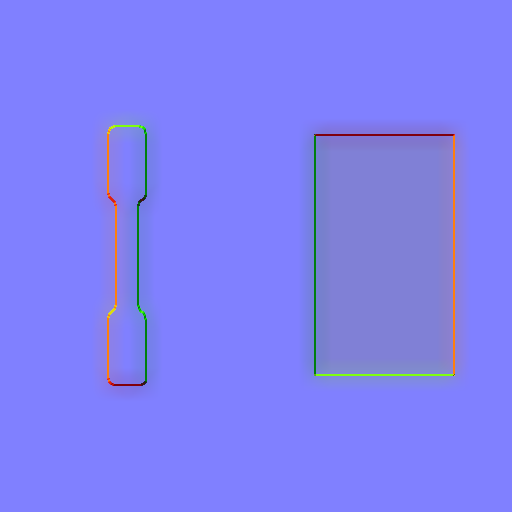
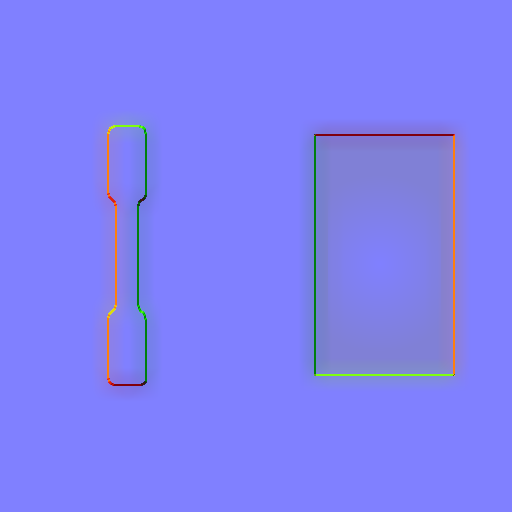
Removed unneeded extra files and comments

Changed region(s): [[0.6562, 0.4375, 0.8125, 0.5938]]

diff --git a/fragement_shader.js b/fragement_shader.js
@@ -69,48 +69,35 @@ void main() {
   vec3 v2 = normalize(v);
   
   // Calculate cylinder coordinate and apply diffuse
-  vec2 cylinderTexCoord = GetCylinderTextureCoordinates(vPosition); //vec2(0.0,0.0);
-  // cylinderTexCoord.s = clamp((-atan(vPosition.z, vPosition.x))/(2.0*PI)+0.5,0.05,0.95);
-  // cylinderTexCoord.t = smoothstep(0.15,0.85,vPosition.y + 0.5);
+  vec2 cylinderTexCoord = GetCylinderTextureCoordinates(vPosition);
   vec3 diffuse_texture = vec3(texture(uSampler, cylinderTexCoord));  
   
   // Calculate updated normal from normal map
   vec3 bump_texture = vec3(texture(uSampler3, cylinderTexCoord));
-  // bump_texture = bump_texture;
-  
-  // float normalPower = bump_texture.z;
-  // vec3 up = vec3(0.0, 1.0, 0.0);
-  // vec3 pt = (cross(up, n2));
-  // vec3 ps = (cross(pt, n2));
-  // float dBds = bump_texture.x-0.5;
-  // float dBdt = bump_texture.y-0.5;
-  
-  vec3 nprime = ApplyBumpNormalMap(bump_texture, n2);//(n2 - dBds * cross(n2, pt) + dBdt * cross(n2, ps))*normalPower;
+  vec3 nprime = ApplyBumpNormalMap(bump_texture, n2);
   
   // Calculate the diffuse and specular values
   float diffuse_value = max(dot(nprime,-l2)-0.5,0.0);
-  vec3 r = (2.0 * max(dot(l2,nprime),0.0) * nprime - l2);
-  // vec3 r = reflect(l2,nprime);
-  float specular_value = pow(max(dot(v2, r), 0.0), 5.0);
+  vec3 r = (2.0 * max(dot(-l2,nprime),0.0) * nprime - l2);
+  float specular_power = 10.0;
+  float specular_offset = 0.005;
+  float specular_value = pow(max(dot(v2, r), 0.0), specular_power)/specular_power * specular_offset;
   
   // Calculate sphere coordinates and apply Reflectance
-  vec2 sphereTexCoord = GetSphericalTextureCoordinates(nprime);//vec2(1.0,1.0);
-  // sphereTexCoord.s = (nprime.x+1.0)/2.0;
-  // sphereTexCoord.t = (nprime.y+1.0)/2.0;
+  vec2 sphereTexCoord = GetSphericalTextureCoordinates(nprime);
   vec3 reflectence_texture = vec3(texture(uSampler2, sphereTexCoord));
 
   
   // Calculate color components for Phong shading
-  vec4 color_mix_amount = vec4(0.25, 0.1, 0.25, 0.3);
-  // vec3 diffuse_color = mix(diffuse_texture, proc_main_color, clamp(dot_mix.x*dot_mix.z, 0.0, 1.0)) * (diffuse_value + color_mix_amount.x);  
+  vec4 color_mix_amount = vec4(0.25, 0.1, 0.25, 0.1);
   vec3 diffuse_color = MarbleProceduralTextureApply(vPosition, diffuse_texture) * (diffuse_value + color_mix_amount.x);
-  vec3 specular_color = vec3(1.0,1.0,1.0) * (specular_value * color_mix_amount.y);
+  vec3 specular_color = vec3(1.0,1.0,0.75) * specular_value;
   vec3 reflectence_color = reflectence_texture * color_mix_amount.z;
   vec3 ambient_color = vec3(1.0,1.0,1.0) * color_mix_amount.w;
   
   // Combine all the colors
   vec3 color = diffuse_color + reflectence_color + specular_color + ambient_color;
-  //color = sin(procPos).rrr;//proc_main_color*((dot_mix.x+dot_mix.z)*0.5*dot_mix.y);//r * specular_value;//subsurf_color.rrr;
+  // color = specular_color * specular_value;//vec3(1.0,0.0,0.0)*specular_value;//sin(procPos).rrr;//proc_main_color*((dot_mix.x+dot_mix.z)*0.5*dot_mix.y);//r * specular_value;//subsurf_color.rrr;
 
   outColor = 1.0*vec4(color,1.0);
 }

diff --git a/vertex_shader.js b/vertex_shader.js
@@ -22,9 +22,9 @@ void main() {
   vTexCoord.s = aVertexPosition.x + 0.5;
   vTexCoord.t = aVertexPosition.y + 0.5;
 
-  float lightXPos = -0.5;
-  float lightYPos = 1.0;
-  float lightZPos = 0.5;
+  float lightXPos = 1.5;
+  float lightYPos = 2.0;
+  float lightZPos = 1.5;
 
 
   n = uNormalMatrix*aVertexNormal;
